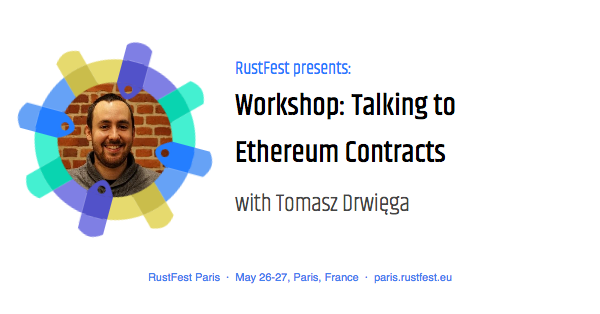
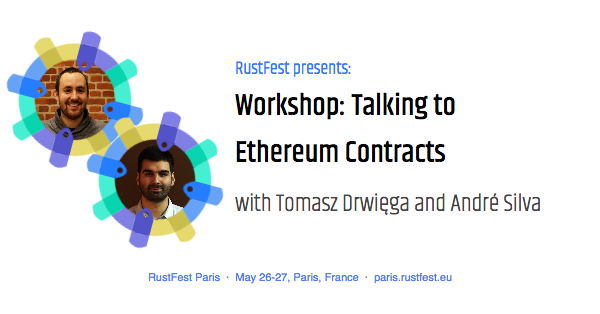
And Andre is back on another workshop

Changed region(s): [[0.0, 0.086, 0.39, 0.8025], [0.69, 0.6019, 0.9, 0.6879]]

diff --git a/_sessions/ethereum-contracts.html b/_sessions/ethereum-contracts.html
@@ -5,6 +5,7 @@ type: workshop
 
 speakers:
 - tomasz
+- andresilva
 
 
 title: Talking to Ethereum Contracts
